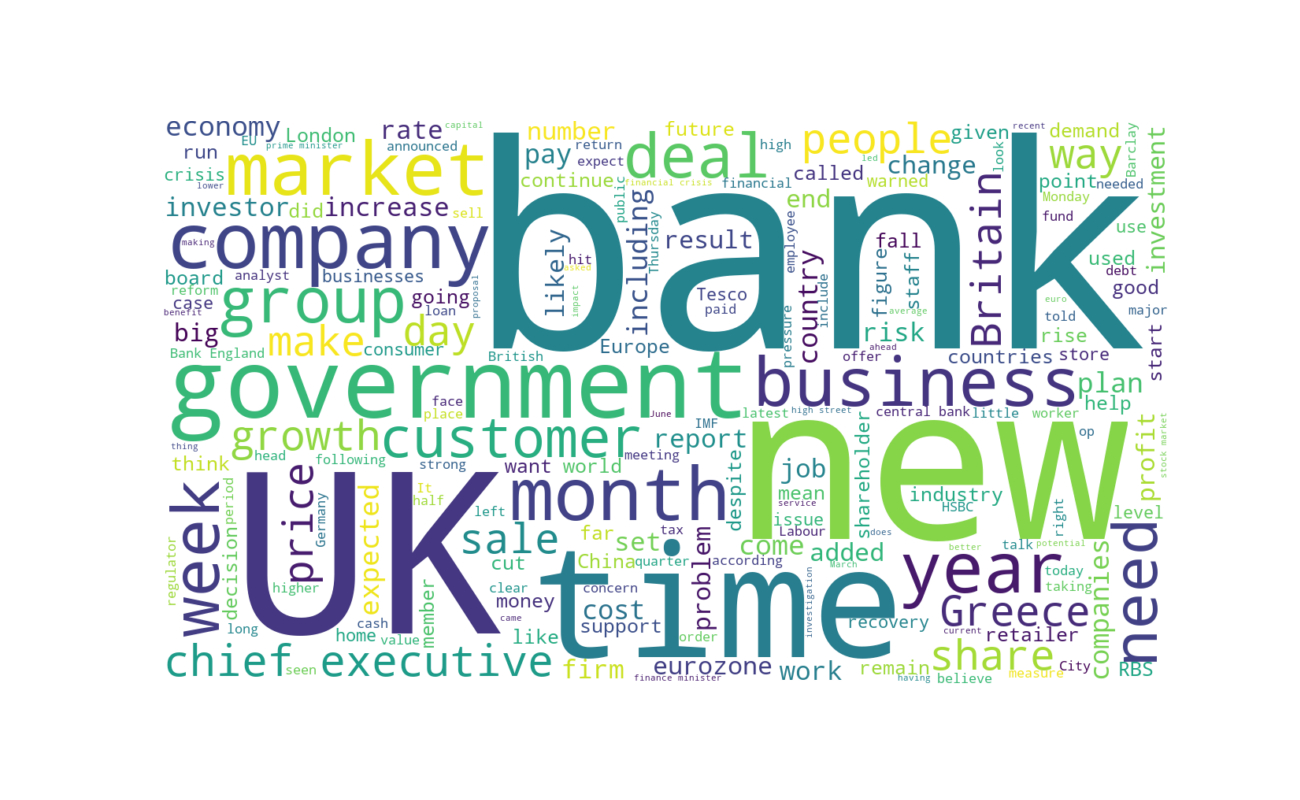
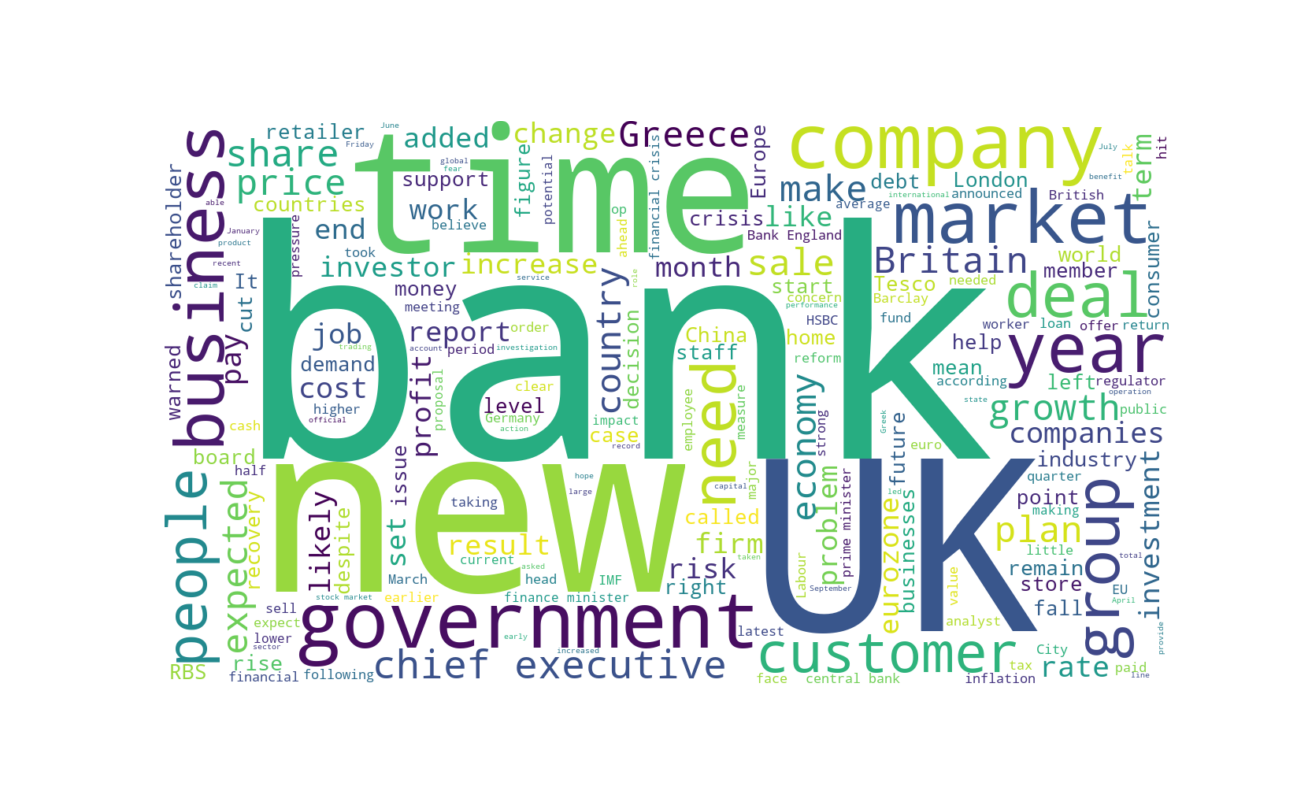
Added more stop words

diff --git a/Wordcloud/wcloud.py b/Wordcloud/wcloud.py
@@ -4,7 +4,7 @@ import matplotlib.pyplot as plt
 import pandas as pd
 
 custom_stopwords = set(ENGLISH_STOP_WORDS)
-custom_stopwords.update(["say", "says", "said", "saying", "just", "year"])
+custom_stopwords.update(["say", "says", "said", "saying", "just", "year", "man", "men", "woman", "women", "guy", "guys", "run", "running", "ran", "run", "do", "don\'t", "does", "doesn\'t" , "doing", "did", "didn\'t",  "use", "used", "continue", "number", "great", "big", "good", "bad", "better", "worse", "best", "worst", "actually", "fact", "way", "tell", "told", "include", "including", "want", "wanting", "will", "won\'t", "give", "given", "month", "day", "place", "area", "look", "looked", "far", "near", "get", "getting", "got", "know", "knows", "knew", "long", "week", "have", "has", "haven\'t", "hasn\'t", "having", "had", "hadn\'t", "not", "think", "thinking", "Monday", "Tuesday", "Wednesday", "Thursday", "Saturday", "Sunday", "high", "low", "thing", "there", "they're", "It", "I\'ve", "I\'d", "He\'s", "She\'s", "They\'ve", "I\'m", "You\'re", "your", "their", "his", "hers", "mine", "today", "yesterday", "it", "ve", "going", "go", "went", "lot", "don", "saw", "seen", "come", "came" ])
 
 # Read the whole text.
 train_data = pd.read_csv('../datasets/train_set.csv', sep="\t")
